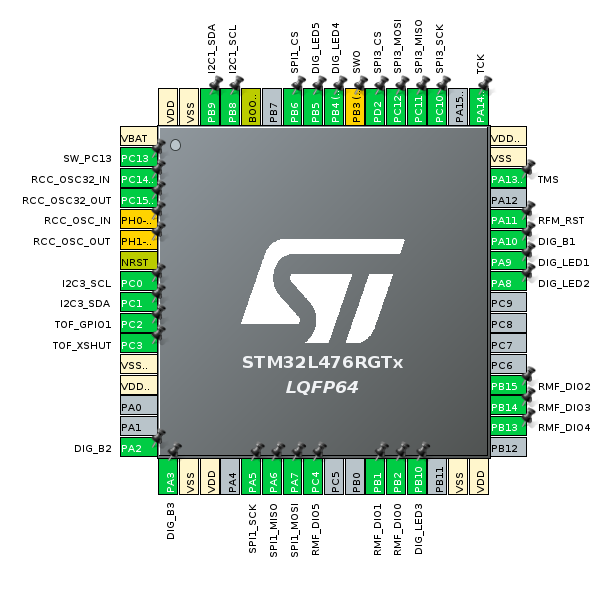
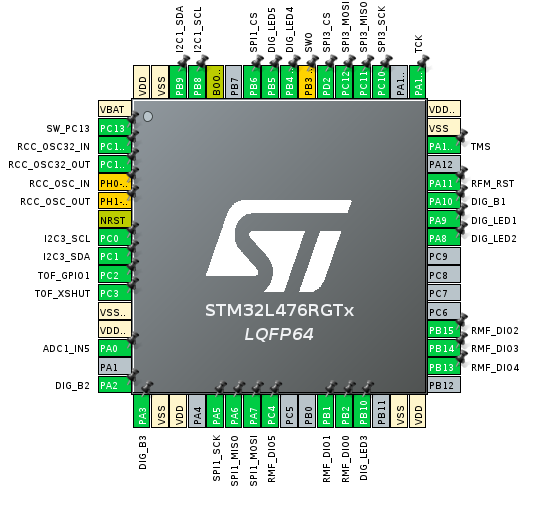
Update readme

Changed region(s): [[0.0312, 0.0, 0.9688, 0.9783], [0.375, 0.3854, 0.6562, 0.6818]]

diff --git a/end_report.md b/end_report.md
@@ -28,7 +28,8 @@ Wszystkie testy zostały zaprojektowane w taki sposób, aby były modularne i ł
 Konfiguracja środowiska testowego zawarta jest w ***project.yml***.
 
 ### Użyte biblioteki zewnętrzne
-## Zarządzanie wyświetlaczem OLED
+
+### Zarządzanie wyświetlaczem OLED
 
 W projekcie wykorzystano bibliotekę **stm32-ssd1306** autorstwa [afiskon](https://github.com/afiskon/stm32-ssd1306) do zarządzania wyświetlaczem OLED opartym na kontrolerze SSD1306. Biblioteka ta zapewnia funkcjonalności umożliwiające łatwą obsługę wyświetlacza, takie jak rysowanie pikseli, tekstu czy prostych kształtów.  
 
@@ -36,4 +37,48 @@ Aby oddzielić bibliotekę od aplikacji oraz zwiększyć jej przenośność i mo
 - Łatwą wymianę używanej biblioteki w przyszłości.  
 - Zachowanie czystości kodu aplikacji, który nie zależy bezpośrednio od szczegółów implementacyjnych biblioteki.  
 - Ułatwienie testowania aplikacji poprzez możliwość mockowania funkcjonalności wyświetlacza.  
+
+### Pinout
+
+Konfiguracja stm32l476 na nucleo wygląda następująco:
+(Należy updatować readme po konifguracji w cubemx)
+
+![CubeMx](docs/update_pinout.png)
+
+
+### Development i struktura branchy
+- *main*: Tylko przetestowany i działający kod, zabronione commitowanie na tego brancha,tylko merge z deva
+- *dev*: możliwe proste commity, zalecane merge z innych branchy rozwijające funkcjonalności
+- *inne branche*: niestabilny kod 
+
+Należy zaczynać każdy plik poprzez ```/**```
+Pozwoli to wygenerować Doxygen-style komentarze:
+```
+/**
+ * @file "file_name"
+ * @author your name (you@domain.com)
+ * @brief 
+ * @version 0.1
+ * @date 2024-11-09
+ * 
+ * @copyright Copyright (c) 2024
+ * 
+ */ 
+ (Pomijamy copyright i wersję)
+```
+
+### Uwagi i natrafione problemy
+
+Z racji tego, że automatyczna generacja kodu nadpisuje jedną z *CmakeLists.txt*
+Po kazdej generacji kodu należy do pliku cmake/stm32cubemx/CMakeLists.txt dodac 
+../../Drivers/OLedDriver/Include w sekji target_include_directories 
+oraz
+../../Drivers/OLedDriver/Src/ssd1306.c
+    ../../Drivers/OLedDriver/Src/ssd1306_fonts.c
+    ../../Drivers/OLedDriver/Src/ssd1306_tests.c w sekcji target sources
+
+Aby zmienić szerokość i wysokoć ekranu OLED oraz inne prametry:
+Zmiany wprowadzamy w napisanym pliku ssd1306_conf.h
+Ustalamy tam m.in
+- szerokość  i wysokośc  ekranu
 

diff --git a/Readme.md b/Readme.md
@@ -31,6 +31,7 @@ Przydatne potem w tworzeniu dokumentacji.
 ##### Framework
 
 Enkapsulacja operacji na peryferiach w interfejs
+
 ### ToDo
 
 Mieć driver do SN74AHCT367PWR, pozwoli na sterownaie matrycą led i serwami.
@@ -42,10 +43,6 @@ Konfiguracja stm32l476 na nucleo wygląda następująco:
 (Należy updatować readme po konifguracji w cubemx)
 
 ![CubeMx](docs/update_pinout.png)
-
-
-
-
 
 ### Znalezione Problemy
 
@@ -64,9 +61,10 @@ zakomnetowane testy działają na windowsie, jednak na Ubuntu  powodują  segmen
 ### Zaincludowane dirvery i biblioteki
 
 #### Biblioteka to wyświetlacza OLED
+
 Wszystkie zmiany wprowadzamy w napisanym pliku ssd1306_conf.h
 Ustalamy tam m.in
-- szerokość  i syokośc  ekranu
+- szerokość  i wysokośc  ekranu
 
 ### UWAGA
 
